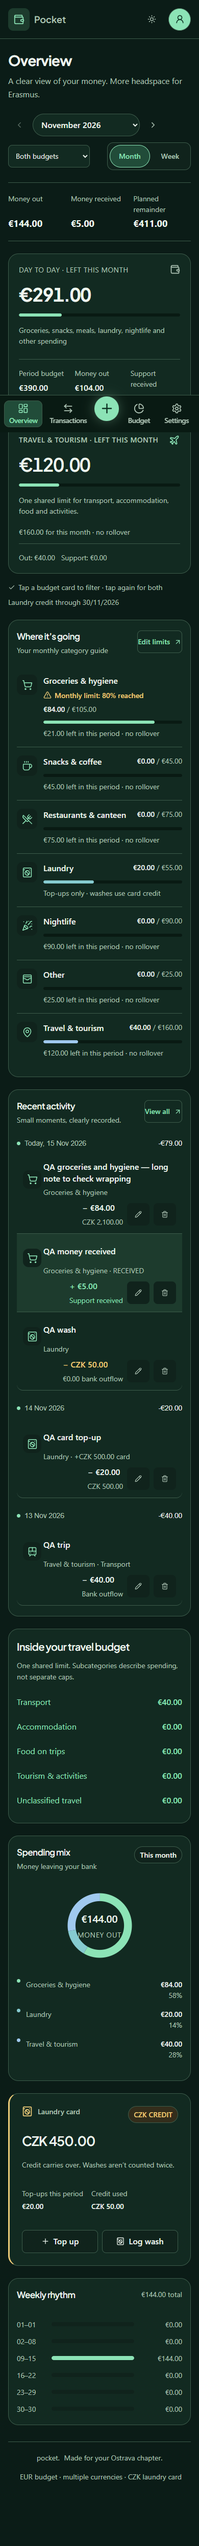
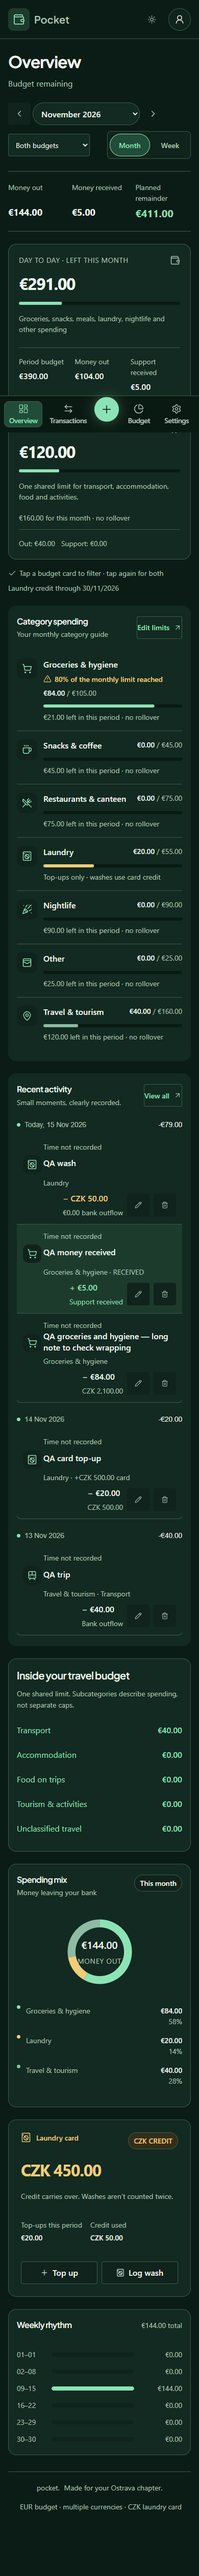
Document bilingual coverage approvals and time compatibility

diff --git a/src/style.css b/src/style.css
@@ -5025,3 +5025,27 @@ body:has(.screen-settings) .quick-add {
 .empty-mark {
   display: none;
 }
+/* Nested surfaces derive their radius from the enclosing surface padding. */
+.panel,
+.balance-card,
+.mini-card,
+dialog {
+  --inner-radius: max(0px, calc(var(--radius-lg) - var(--space-4)));
+}
+dialog {
+  border-radius: var(--radius-lg);
+}
+.panel .notice,
+.panel .data-action,
+dialog .amount-hero,
+.balance-card .track,
+.balance-card .track > span {
+  border-radius: var(--inner-radius);
+}
+.segmented {
+  border-radius: var(--radius-lg);
+  padding: var(--space-1);
+}
+.segmented button {
+  border-radius: calc(var(--radius-lg) - var(--space-1));
+}

diff --git a/docs/COVERAGE.md b/docs/COVERAGE.md
@@ -1,79 +1,74 @@
-# Redesign coverage — 15 November 2026
+# UI refinement coverage
 
-Branch: `codex/calm-pocket-redesign`. Base: `240efd2`.
+Branch: codex/pocket-ui-language. Base: ae629f2. The PT/EN selector already existed; this update completes device-language defaults, catalog parity and localized field feedback. Financial notes, brand names, currency codes and backup field names intentionally remain unchanged. No known app-owned interface label remains untranslated; unknown service diagnostics use a localized generic error.
 
-**Done** means the interface exists and was rendered in Chrome, including isolated fixtures where a live account or unusual state was needed. It does not mean physical-device or live-service certification. **Partial** identifies an explicit verification gap. No financial fixtures are bundled into the application; browser checks used separate disposable storage and mocked reference-rate responses.
+## Screen and state coverage
 
-## Screens and states
+Done means implemented and rendered; mock account/PWA states are distinguished from live infrastructure. No fixture records or quotes are bundled into the app.
 
-| Screen       | State or action                                                               | Status | Evidence / boundary                                                                                                             |
-| ------------ | ----------------------------------------------------------------------------- | ------ | ------------------------------------------------------------------------------------------------------------------------------- |
-| Navigation   | Five mobile controls, desktop sidebar, rate and workspace badges              | Done   | 320, 390, 768 and 1440px; navigation actions exercised.                                                                         |
-| Overview     | Month/week selection; Day to day, Travel and Both                             | Done   | All variants rendered; filtering and navigation exercised.                                                                      |
-| Overview     | Spending, money received, planned remainder, selected budget cards            | Done   | Existing summary values; selected card toggles back to Both.                                                                    |
-| Overview     | Category guides, 80%/100% indicators, charts with numeric legends             | Done   | Threshold fixture, labels and values rendered; no colour-only alert.                                                            |
-| Overview     | Recent activity and first-use empty state                                     | Done   | Populated and isolated empty workspaces rendered.                                                                               |
-| Overview     | Favourites, pending recurring occurrences, laundry, backup reminder           | Done   | Launch/undo, confirm/edit/ignore, top-up/wash and reminder controls exercised.                                                  |
-| Transactions | Day groups, daily net bank movement, original amounts                         | Done   | Daily totals retain the model's exclusion of washes from bank movement.                                                         |
-| Transactions | Search, group/category filters, empty and no-results states                   | Done   | No-results has a distinct Clear filters action.                                                                                 |
-| Transactions | Read-only detail and edit handoff                                             | Done   | Focus restoration, original three-decimal currency amounts, live row refresh/removal and opening the editor checked.            |
-| Transactions | Delete confirmation and Undo                                                  | Done   | Entry restored through existing validation; delete summary shows original currency.                                             |
-| Editor       | Expense, Money received, Card top-up and Wash; add/edit                       | Done   | All four kinds saved through the production form and unchanged accounting.                                                      |
-| Editor       | Amount/currency/date, budget cards, categories, note, rate and EUR equivalent | Done   | Bottom sheet/mobile and centred dialog/desktop; no clipped amounts.                                                             |
-| Editor       | Searchable currency picker, keyboard selection, manual rate                   | Done   | Arrows/Enter and manually entered conversion exercised.                                                                         |
-| Editor       | Validation and insufficient historical card credit                            | Done   | Invalid wash rejected and inline error rendered.                                                                                |
-| Editor       | Unsaved changes, Keep editing, Discard, successful save                       | Done   | Manual, favourite, recurring-rule and pending-occurrence guard actions and save bypass exercised.                               |
-| Editor       | Saved and monthly-limit notifications                                         | Done   | Existing notifications retained with icons and accessible text.                                                                 |
-| Budget       | Monthly total/category distribution, month/scope, saved feedback              | Done   | Plan changed and saved; selected month remains selected.                                                                        |
-| Budget       | Replacement warning and invalid distribution                                  | Done   | Following-month warning rendered; mismatch shows feedback and disables Save.                                                    |
-| Budget       | Tracking period, first tracked day, opening balances                          | Done   | Settings rendered; invalid tracking change rejected. Existing model tests retained.                                             |
-| Recurring    | Rule list, empty state, create/edit/delete, schedule/mode                     | Done   | Rule creation, edit and deletion exercised; generated entries unchanged.                                                        |
-| Recurring    | Pending occurrence Confirm/edit/Ignore and automatic Undo                     | Done   | Production components rendered and callbacks exercised.                                                                         |
-| Favourites   | List/empty, create/edit/delete, use/Undo, missing rate                        | Done   | All actions exercised with isolated records.                                                                                    |
-| Laundry      | Balance, history, opening credit and quick actions                            | Done   | Real fixture history displayed; no assumed wash prices or hours.                                                                |
-| Laundry      | Insufficient and blocked-change errors                                        | Done   | Invalid wash rejected; deleting a consumed top-up shows an error and preserves the record.                                      |
-| Exchange     | Searchable currencies, converter, published/fetched dates                     | Done   | Mocked reference response; search and conversion exercised.                                                                     |
-| Exchange     | Refreshing, cached/offline, error and missing rate                            | Done   | Held/failed mock responses render refreshing/error and missing quote; cached fixture renders offline.                           |
-| Data         | JSON/CSV export and reminder interval                                         | Done   | Export Blob contents inspected; disk download completion not checked.                                                           |
-| Data         | Import preview, cancellation, confirmation, duplicates, invalid file          | Done   | Invalid content rejected; duplicate-free CSV merge and preview actions exercised.                                               |
-| Account      | Unconfigured local mode and email-link request/success                        | Done   | Production settings rendered with mock OTP; real email delivery not tested.                                                     |
-| Account      | Pending changes, syncing, synced, offline, error                              | Done   | Production settings rendered with isolated store fixtures in both themes.                                                       |
-| Account      | Conflict; Export both, Keep local, Use cloud                                  | Done   | Both versions displayed and callbacks exercised. Existing sync protocol tests pass; no live cloud write.                        |
-| Account      | Sign-out confirmation                                                         | Done   | Dialog and Cancel exercised with pending-change fixture.                                                                        |
-| Settings     | Dark/light, English/Portuguese, limit alerts                                  | Done   | Theme/language changes persist on reload; preferences rendered.                                                                 |
-| Settings     | Offline notice                                                                | Done   | Offline UI state rendered; no service-worker offline navigation test.                                                           |
-| Settings     | Update available, save-open-forms warning, Reload & update                    | Done   | Actual App renders with mocked PWA hook; warning and reload callback checked. Real service-worker lifecycle remains unverified. |
+| Screen/state                                                            | Status      | Evidence                                                                                                   |
+| ----------------------------------------------------------------------- | ----------- | ---------------------------------------------------------------------------------------------------------- |
+| Overview: month/week, Day to day/Travel/Both, figures/cards             | Done        | Browser matrix and selected-budget assertions (P2).                                                        |
+| Categories,80%/100%,numeric chart legends,recent activity               | Done        | Existing threshold fixtures and localized matrix.                                                          |
+| First-use,favourites,pending occurrences,laundry,backup reminder        | Done        | Empty/fixture flows; actions retained.                                                                     |
+| Transactions: daily groups/net movement,search/filters,empty/no-results | Done        | Browser matrix; washes excluded by unchanged accounting.                                                   |
+| Detail,edit,delete/Undo                                                 | Done        | Existing workflow checks; precision retained.                                                              |
+| Newest addition first within day; recorded time                         | Done        | Unit round trips, ordering assertions and browser save/detail assertions. Legacy unknown time is explicit. |
+| Editor: expense,received,top-up,wash; add/edit                          | Done        | Existing production forms with new time field.                                                             |
+| Currency/date/time/group/category/note/rate/EUR equivalent              | Done        | Keyboard picker and saved input preservation; EN/PT.                                                       |
+| Validation,insufficient credit,unsaved choices,success/limit alerts     | Done        | Existing guard/credit tests; localized native validation.                                                  |
+| Budget:total,distribution,scope,replacement/error/success,tracking      | Done        | Form checks; navigation retains drafts (P1).                                                               |
+| Recurring rules:create/edit/delete; Confirm/edit/Ignore; automatic Undo | Done        | Existing workflows retained; schedule dates localized.                                                     |
+| Favourites:list/empty/create/edit/delete/use/Undo/missing rate          | Done        | Existing workflows; new quick entries record time.                                                         |
+| Laundry:balance/history/opening credit/blocked changes                  | Done        | Existing credit tests and blocked top-up fixture.                                                          |
+| Rates:search/converter/refresh/cache/offline/error/missing              | Done        | Mocked network; skeleton and last values retained.                                                         |
+| Data:JSON/CSV export/import/preview/duplicates/invalid/reminder         | Done        | Unit compatibility and browser stable-size reading/export feedback.                                        |
+| Account:local/email-link/pending/syncing/synced/offline/error           | Done (mock) | Real components with mock account/network callbacks.                                                       |
+| Conflict:Export both/Keep local/Use cloud; sign-out                     | Done (mock) | Existing callback/confirmation checks. Live server not tested.                                             |
+| Appearance/language/alerts/offline/update/open-form warning             | Done        | Matrix, preference persistence and mocked PWA state.                                                       |
+| Physical install,real service-worker lifecycle,live Supabase            | Partial     | Not exercised in this environment.                                                                         |
 
-## Delivery checkpoints
+## Twenty UI rules
 
-Every implementation checkpoint ran formatting, **48/48 tests** and the production TypeScript/Vite/PWA build successfully before committing. Subsequent focused checks address changes made after the broad browser pass.
+The brief's related typography and state bullets are grouped into20 review rows.
 
-The broad browser run contains 209 layout/state samples and 20 workflow groups. Follow-up checks cover 6 updated Overview/editor layouts, settled account contrast/focus restoration, and a final 13 workflow groups with 8 additional rendered-state samples. No requested interface is missing. Live-service, physical-device and service-worker lifecycle verification remains outstanding as described below.
+| Rule                                               | Where applied                                                            | Status                                                                       |
+| -------------------------------------------------- | ------------------------------------------------------------------------ | ---------------------------------------------------------------------------- |
+| 1 Remove filler badges                             | AppLayout,empty marks,term/mobile branding                               | Done                                                                         |
+| 2 Remove redundant labels                          | Page introductions,data headings,editor rate copy                        | Done                                                                         |
+| 3 Specific headlines                               | Category spending,backup files,account/manual sync                       | Done                                                                         |
+| 4 Balanced headings;unbroken amounts               | Shared CSS,metrics,rows,budget cards                                     | Done                                                                         |
+| 5 Defined type scale and fonts                     | tokens.css;14/16/20/24/32/48scale                                        | Done                                                                         |
+| 6 No decorative italics/bold/monospace             | Shared body/value fonts and branding                                     | Done                                                                         |
+| 7 Tabular locale-aware numbers                     | Values,rates,percentages,dates,time                                      | Done                                                                         |
+| 8 AA contrast/readable secondary and disabled text | Dark/light tokens;computed text checks including disabled controls       | Done in sampled states                                                       |
+| 9 Primary task gets visual weight                  | Remaining figures,editor amount,laundry credit                           | Done                                                                         |
+| 10 Group through spacing;reduce nested boxes       | Plan/editor/template panels;spacing scale                                | Done                                                                         |
+| 11 Optical alignment                               | Lucide normalization;rendered screenshots                                | Done                                                                         |
+| 12 Nested radius rule                              | Surface tokens and inner-panel/fieldset overrides                        | Done: nested surfaces and segmented controls derive inner radii from padding |
+| 13 Semantic token system                           | Colours,type,motion,layers;layout geometry remains in CSS                | Done                                                                         |
+| 14 One mint accent;semantic gold                   | Actions/selection/focus;currency/laundry;green chart palette             | Done                                                                         |
+| 15 One dominant CTA;distinct destructive action    | Page/modal styles;confirmed deletion and sign-out                        | Done                                                                         |
+| 16 Consistent icons/accessible names               | Lucide16/20/24,1.75stroke;existing aria labels                           | Done                                                                         |
+| 17 No embellishments                               | No gradients/glows/illustrations;floating elevation only                 | Done                                                                         |
+| 18 Async loading feedback                          | BusyButton,Skeleton,file reading,FX,sync,email                           | Done; browser controls disk download completion                              |
+| 19 Empty/error/offline/success states              | Existing screens plus localized fallback diagnostics                     | Done                                                                         |
+| 20 Useful motion/reduced motion                    | Transform bars,press,dialog/toast entry,optional native exit transitions | Done; browsers without View Transitions close immediately                    |
 
-| Step                               | Commit    | Main files                                                                            | Result |
-| ---------------------------------- | --------- | ------------------------------------------------------------------------------------- | ------ |
-| Tokens/base                        | `ca3a138` | `src/tokens.css`, `src/style.css`, `docs/DESIGN.md`                                   | Pass   |
-| Shared components                  | `7c9922e` | `src/components/Primitives.tsx`, styles                                               | Pass   |
-| Layout/navigation                  | `d17c3bd` | `AppLayout.tsx`, `PeriodControls.tsx`, translations/styles                            | Pass   |
-| Overview                           | `378581a` | `src/views/Overview.tsx`, `Panels.tsx`, translations/styles                           | Pass   |
-| Transactions                       | `a92a10a` | `src/views/Transactions.tsx`, `Panels.tsx`, translations/styles                       | Pass   |
-| Editor                             | `c638bf0` | `TransactionEditor.tsx`, `LedgerDialogs.tsx`, translations/styles                     | Pass   |
-| Budget/settings navigation         | `78b111e` | `src/views/Settings.tsx`, `src/App.tsx`, translations/styles                          | Pass   |
-| Recurring/favourites               | `40916cd` | `Recurring.tsx`, `Favorites.tsx`, translations/styles                                 | Pass   |
-| Laundry                            | `11e9df6` | `Panels.tsx`, translations/styles                                                     | Pass   |
-| Exchange                           | `5d870e2` | `Panels.tsx`, styles                                                                  | Pass   |
-| Data                               | `2e285f2` | `DataDialogs.tsx`, styles                                                             | Pass   |
-| Account/preferences                | `6dcfd63` | `Settings.tsx`, `App.tsx`, styles                                                     | Pass   |
-| Theme/accessibility polish         | `bf31fe5` | tokens, styles, navigation/translations                                               | Pass   |
-| Overview columns/detail correction | `4814cae` | `Overview.tsx`, `Panels.tsx`, styles                                                  | Pass   |
-| Precision/shared discard guard     | `870ac28` | `formatAmount.ts`, `UnsavedDialog.tsx`, ledger/recurring/favourite components, README | Pass   |
+## Proposals
 
-## Limits and review
+| ID  | Change                                           | Impact                                                    | Recommendation           | Status                                       |
+| --- | ------------------------------------------------ | --------------------------------------------------------- | ------------------------ | -------------------------------------------- |
+| P1  | Preserve settings drafts across pages            | UI lifecycle;no persisted format change                   | Keep                     | Approved and implemented,e2f8564             |
+| P2  | Scope Overview summary to selected budget        | Presentation only;existing summary values                 | Keep                     | Approved and implemented,ce6b1ea             |
+| P3  | Latest addition first and optional recorded time | HIGH IMPACT:metadata validation/comparator and CSV column | Keep;update both devices | Explicitly requested and implemented,f9e5d46 |
 
-Review screenshots: [dark mobile Overview](previews/overview-dark-mobile.png), [light desktop Overview](previews/overview-light-desktop.png), [mobile editor](previews/editor-dark-mobile.png). These contain isolated QA records and mocked rates only. They are documentation, not preloaded application data.
+P3 compatibility/rollback is documented in PROPOSALS.md. Amounts,exchange conversion,allocation,credit-validation rules,storage keys,sync protocol and Supabase schema are unchanged. P1 preserves drafts across navigation, not across a browser reload; committed external changes still reset forms to the latest saved data.
 
-- Accounting, hooks, persistence, sync, backup formats, exchange-rate retrieval, Supabase schema, package manifests and lockfile have no diff from the base commit.
-- Browser checks used Chrome with production headers and CSP, mocked Frankfurter responses and blocked service workers. Account fixtures render the real components but substitute authentication/network callbacks.
-- Computed text-contrast sampling, target/font sizes, amounts and overflow were inspected. This is not a full screen-reader audit or accessibility certification. No physical Android/iOS device or notch/landscape device was available.
-- No real Supabase authentication, cross-account RLS test, two-device network sync or conflict was performed. No changes were pushed or deployed.
-- See [VERIFICATION.md](../VERIFICATION.md) for test details and historical checks. Dependency audit counts are dated; no new audit or dependency upgrade is claimed for this UI work.
+## Step record
+
+Every implementation commit passed tests and production build. Initial language work increased48tests to50; time/ordering coverage increased50to52. Commit history contains the ordered screen refinements and separate proposal commits. Review source with git diff ae629f2..HEAD. Screenshot fixtures are explicitly QA-only; compare docs/previews with the current files referenced in VERIFICATION.md.
+
+## Remaining verification
+
+No physical Android/iOS install,real offline SW navigation/update,live email delivery,live two-device sync or full assistive-technology certification. Localhost preview HTTP was blocked/timed out in this environment; Chrome QA served the built assets by same-origin interception with production CSP. No GitHub push or deployment was performed. Figma was not supplied a file/node destination; no external design file or new hosted Site was created.

diff --git a/README.md b/README.md
@@ -33,7 +33,7 @@ This separation preserves the existing interface, storage keys, backup format, s
 
 ## Interface and navigation
 
-English is the default language. Open **Settings → Language** and choose **Português (Portugal)** to switch immediately. The device remembers the choice across reloads and shares it between open tabs. Navigation, forms, categories, app messages, currency names, dates and amounts follow the selected language. Personal notes, financial values and JSON/CSV field names remain unchanged. Translations live in `src/locales/pt.ts`, with English source messages as keys.
+On first launch, a Portuguese device language selects Português (Portugal); other device languages select English. A saved choice always takes priority. Open **Settings → Appearance & language** and choose **Português (Portugal)** to switch immediately. The device remembers the choice across reloads and shares it between open tabs. Navigation, forms, categories, app messages, currency names, dates and amounts follow the selected language. Personal notes, financial values and JSON/CSV field names remain unchanged. Translations live in `src/locales/pt.ts`, with English source messages as keys.
 
 Desktop uses a persistent sidebar, exchange-rate badge and an account/sync status derived from the actual workspace. Mobile uses five navigation controls: Overview, Transactions, a central Add button, Budget, and Settings. Budget and Settings share the same data forms; mobile tabs expose Plan, Exchange rates, Card, Data and Account. Changing pages returns to the top.
 
@@ -104,9 +104,9 @@ On 3 November 2026 the service returned 165 searchable non-crypto currencies. Co
 
 Rates and catalog are cached separately from the financial document, so refreshes do not create Supabase conflicts. Offline entries can use cached rates; without a rate you must enter one manually. Each entry saves its currency, EUR conversion, rate and optional publication/source metadata. Editing starts with the entry’s saved rate, preserving historical valuations. Foreign amounts use currency-specific integer minor units (JPY has no fractional digits, KWD has three). Budgets stay in EUR; the laundry card stays in CZK with EUR/CZK-only top-ups and washes. Bank fees are not inferred.
 
-Transactions are grouped by day, newest day first, then first-added first within a day. Editing an entry preserves its insertion order. Older entries receive an insertion sequence based on their existing stored order; previously lost creation chronology cannot be reconstructed. Sequence numbers travel with JSON, CSV and cloud sync.
+Transactions are grouped by day, newest day first, then last-added first within a day. Editing an entry preserves its insertion order. Older entries receive an insertion sequence based on their existing stored order; previously lost creation chronology cannot be reconstructed. Sequence numbers travel with JSON, CSV and cloud sync.
 
-JSON saves all settings, plans, history and legacy metadata. Import replaces the workspace after confirmation. CSV exports transactions, including travel categories and insertion order. CSV import merges IDs, skips identical records and rejects changed duplicates. Original 10-column, previous 12-column and 13-column Pocket CSVs are also accepted. New CSVs include rateDate and rateSource. Amount is always in the original currency’s minor units; eur and card credit remain in EUR/CZK cents. Use JSON when moving the complete budget. Export backups before clearing browser storage. Refund/negative entries are not supported; use income for support and edit/delete mistakes.
+JSON saves all settings, plans, history and legacy metadata. Import replaces the workspace after confirmation. CSV exports transactions, including travel categories and insertion order. CSV import merges IDs, skips identical records and rejects changed duplicates. Original 10-column, previous 12-column and 13-column Pocket CSVs are also accepted. New CSVs include rateDate, rateSource and time. Previous 15-column CSVs remain supported. Amount is always in the original currency’s minor units; eur and card credit remain in EUR/CZK cents. Use JSON when moving the complete budget. Export backups before clearing browser storage. Refund/negative entries are not supported; use income for support and edit/delete mistakes.
 
 ## Existing budgets migrate automatically
 
@@ -176,7 +176,7 @@ After a code update, push the changed files and wait for Vercel to finish deploy
 
 The November 15 redesign was checked in headless Chrome at 320, 390, 768 and 1440px in both themes, with English and Portuguese layouts. The walkthrough covers entries, details, deletion/undo, recurring rules, favourites, plan edits, backup payloads/import and device preferences. Account and conflict states were rendered with mock callbacks; this does not verify live authentication or multi-device sync.
 
-`npm test` currently runs 48 tests covering accounting, migration, dates, ordering, currencies, backup round trips and platform configuration. `npm run build` checks TypeScript and generates the production app and service worker. See [VERIFICATION.md](VERIFICATION.md) for the checks performed and their limits. The redesign passed a Chrome browser smoke check at 320, 390, 768 and 1440px, including mobile navigation, currency search, card filtering, expense creation/editing and light theme. These checks used isolated test data and mocked rate responses; they are not tests on a physical Android device or live Supabase accounts.
+`npm test` currently runs 52 tests covering accounting, migration, dates, ordering, currencies, backup round trips and platform configuration. `npm run build` checks TypeScript and generates the production app and service worker. See [VERIFICATION.md](VERIFICATION.md) for the checks performed and their limits. The redesign passed a Chrome browser smoke check at 320, 390, 768 and 1440px, including mobile navigation, currency search, card filtering, expense creation/editing and light theme. These checks used isolated test data and mocked rate responses; they are not tests on a physical Android device or live Supabase accounts.
 
 Official references: [Vercel Vite](https://vercel.com/docs/frameworks/frontend/vite), [Supabase keys](https://supabase.com/docs/guides/getting-started/api-keys), [Redirect URLs](https://supabase.com/docs/guides/auth/redirect-urls).
 
@@ -193,3 +193,11 @@ Official references: [Vercel Vite](https://vercel.com/docs/frameworks/frontend/v
 - English is the source language; the existing language selector provides Portuguese (Portugal). New interface messages use the same translation mechanism. User-entered notes and exported field names are not translated.
 
 Consult VERIFICATION.md for the latest checks and dated audit counts; see IMPROVEMENTS.md for the status of each review point.
+
+## UI and language refinement
+
+The selector already existed and has been completed with device-language defaults, independent EN/PT catalogs, key-parity tests, localized field validation, and immediate updates to the document title and language. Switching language keeps mounted drafts, values and scroll position. Personal notes, brand names, currency codes and exported field names remain unchanged. Unrecognized provider diagnostics use a localized recovery message.
+
+The approved changes preserve settings drafts when navigating away and scope the Overview summary to the selected budget. New manual transactions have an editable time in Ostrava time (Europe/Prague); quick favourite entries record the current time. Older and scheduled transactions with no known time display “Time not recorded”. Editing does not move an entry to the top: ordering uses its original insertion sequence, descending within each date. No time is invented for old records. JSON carries optional time metadata; CSV adds a final time column while continuing to read older headers. Update both devices before editing this version; older clients may omit times on edits and do not read the new CSV header. Keep a full JSON backup before rollback. No SQL change is needed.
+
+See [coverage and the 20 UI rules](docs/COVERAGE.md), [approved proposals and compatibility](docs/PROPOSALS.md), and [verification](VERIFICATION.md).

diff --git a/docs/PROPOSALS.md b/docs/PROPOSALS.md
@@ -3,6 +3,7 @@
 Base: ae629f2. Branch: codex/pocket-ui-language.
 
 ## Audit
+
 - Language selector already exists in Settings/Account; i18n.ts defaults to English rather than device language. There is one PT dictionary but no independently checked EN catalog.
 - AppLayout.tsx still includes decorative Erasmus badges, an ornamental term label and generic introductory copy.
 - style.css contains historical gradients, shadows, raw dimensions, inconsistent icon sizes and disabled opacity that weakens contrast. Tokens lack type, motion and layering scales.
@@ -11,6 +12,7 @@ Base: ae629f2. Branch: codex/pocket-ui-language.
 - Settings forms are preserved between settings tabs, but unmount when leaving the screen. Global Overview totals remain global when a single budget is selected.
 
 ## P1 — Preserve settings drafts across page navigation
+
 Problem: Settings.tsx unmounts when moving to Overview/Transactions, losing unsaved plan/tracking fields.
 Proposal: keep the screen mounted or retain drafts in its existing hook.
 Benefit: navigation does not silently discard a draft.
@@ -20,6 +22,7 @@ Alternatives: do nothing; warn before leaving instead.
 Recommendation: approve separately after the visual work. Status: IMPLEMENTED (P1); screen remains mounted, drafts survive page navigation. External saved-data changes still reset forms to the latest committed data.
 
 ## P2 — Scope the Overview summary to the selected budget
+
 Problem: Overview.tsx global spending/support/remainder metrics stay global while category charts filter to Day to day or Travel.
 Proposal: filter all three summary figures to the chosen budget, while Both retains current totals.
 Benefit: the headline summary matches the selected context.
@@ -31,6 +34,7 @@ Recommendation: approve separately; for now retain values and clarify the global
 Only reply with IDs to approve these, e.g. approve P1; reject P2. Visual styling and the expressly requested language support continue independently. No HIGH IMPACT proposal is needed.
 
 ## P3 — Newest entries within each day and recorded time — HIGH IMPACT
+
 Approved by the user's explicit follow-up request. Days remain descending; insertion sequence within a day becomes descending (editing never changes order). Optional time metadata stores HH:mm in Europe/Prague; new manual entries default to current time and permit editing. Legacy and scheduled entries with unknown time say Time not recorded. Favourite quick entries record current time.
 Affects model transaction metadata/validation/comparator, optional JSON property, appended CSV time column, bilingual editor/list/detail, tests. No amount, conversion, allocation, credit-validation rules, storage keys, sync protocol or SQL schema changes. Risk medium; effort M. Alternative do nothing rejected by the direct request.
 Migration: no invented times; old10/12/13/15-column CSVs remain readable; new exports16columns. Older CSV merging preserves an existing recorded time. JSON version unchanged. Update both devices before editing; old clients may drop time metadata when editing. Rollback: export a complete JSON first, return to previous client; original financial fields remain compatible, but older clients cannot import the new CSV header. Retain the JSON for time recovery.

diff --git a/VERIFICATION.md b/VERIFICATION.md
@@ -1,5 +1,18 @@
 # Verification
 
+## Bilingual UI refinement and transaction time
+
+Base ae629f2; branch codex/pocket-ui-language. See docs/COVERAGE.md for all screens,20 UI rules and proposals; docs/PROPOSALS.md records approval/impact/rollback. The language selector already existed and was completed, not invented anew.
+
+- 52tests pass (48existing plus catalog/device-language and time-compatibility coverage); production TypeScript/Vite/PWA build and formatting pass. Every implementation commit passed its applicable50/52tests and build. No new dependencies.
+- 176 rendered state/layout samples cover320/390/768/1440px, both themes and EN/PT. After correcting a narrow-screen metric overflow, no document overflow, sampled clipped amounts, text below14px, controls below44px or computed text-contrast failures remained. Disabled text was included. This is sampling, not accessibility certification.
+- Targeted browser checks confirm P1 draft retention across navigation, P2 scoped totals, P3 recorded time and latest-added-first display, mid-form locale changes retaining input nodes/values/time/sheet scroll, language-selector page-scroll preservation, saved language after reload, export feedback and stable-size/disabled import reading.
+- Motion checks exercise animated dialog cancellation and reduced-motion disabling. Exit transitions use the optional native View Transitions API; unsupported browsers perform the action immediately. No looping decoration.
+- Date/time metadata is optional. Time is HH:mm in Europe/Prague; legacy/scheduled unknown times remain absent. The new16-column CSV includes time and reads old10/12/13/15-column CSVs. Tests verify old CSV merge preserves an existing time, JSON/CSV round trips, invalid-time rejection and insertion order unaffected by edits/recorded time.
+- P3 deliberately changes transaction metadata validation, display ordering and CSV shape with user authorization. Financial arithmetic, historical credit validation, storage keys, sync protocol and SQL schema are unchanged. P1/P2 only affect presentation/lifecycle. Language/visual feedback extend existing hooks without replacing the state layer.
+- Built assets were served to isolated Chrome contexts through same-origin interception with production CSP. Frankfurter/account responses are mocked; no personal records/accounts were accessed. Localhost HTTP preview was blocked/timed out despite Vite starting, so a live preview could not be verified.
+- No physical device install, real SW offline/update lifecycle, live email delivery, live Supabase two-device sync or download-file completion was checked. Source remained local; no push/deployment. Figma had no supplied destination/source file; no new Figma file or hosted Site was created.
+
 ## Interface redesign — 15 November 2026
 
 Branch `codex/calm-pocket-redesign`, based on `240efd2`. Implementation follows the ordered checkpoints in [docs/COVERAGE.md](docs/COVERAGE.md); design rules and the short audit are in [docs/DESIGN.md](docs/DESIGN.md).

diff --git a/docs/DESIGN.md b/docs/DESIGN.md
@@ -1,22 +1,28 @@
 # Pocket interface system
 
 ## Direction and structure
+
 Forest surfaces, one mint action/selection accent, gold only for currency/laundry and semantic error styling. Preserve all destinations, form actions, grouping and calculations. Pending behavioural ideas live in PROPOSALS.md.
 
 ## Tokens
+
 Colour roles: canvas, surface, inset, elevated, active, text, muted, disabled, border, action/on-action, gold/background, error/background. Seven chart series use shades of the existing green palette with numeric legends; laundry alone may use gold.
 Type: Inter body and monetary values; Plus Jakarta Sans headings. 14/16/20/24/32/48px scale; 16px mobile body. Tabular numerals for financial values, dates, rates and percentages. Balanced heading wrapping, unbroken amounts.
 Spacing: 4/8/12/16/24/32/48px. Radius: 16px outer, 8px inner at 8px padding, square inner at 16px padding. Touch minimum44px. Shadow only on floating menus/dialogs/toasts. Layers: header10, navigation20, toast40, modal50.
 Motion: 180ms ease-out; transform/opacity only, finite feedback. Reduced motion disables animations/transitions. Refresh progress retains previous values without decorative loops.
 
 ## Components
+
 Native accessible controls with shared primary/secondary/destructive styles; Field, Search, chips, Metric, bars, transaction rows, Notice, EmptyState, Skeleton/BusyButton, Modal/UnsavedDialog. One dominant action per current screen or modal; contextual actions remain available with lower visual weight. Lucide icons,1.75 stroke,16/20/24 grid. No decorative badges, emoji, gradients or illustrations.
 
 ## Layout
+
 Existing mobile five-control navigation and settings tabs preserved. Desktop sidebar and two columns retained. Spacing groups related content; forms avoid nested bordered cards. Safe areas on all edges. Check320/390/768/1440px in EN/PT and dark/light.
 
 ## Language
+
 English source keys and a separate English catalog, PT-PT equivalents with identical keys and placeholders. First launch uses navigator language (pt variants→pt; otherwiseen); saved choice wins. Runtime switching preserves mounted inputs/scroll. Intl handles dates, numbers, currency, percentages and plurals. Titles/lang/accessible names update. Data, notes, storage keys and machine-readable exports never translate. Unknown provider errors use localized generic UI feedback; technical diagnostics remain unchanged internally.
 
 ## Verification
+
 Run tests/build at every commit, plus dictionary parity/source-key checks. Browser matrix uses disposable data and mocked networking. Verify language switch mid-form, longPT labels, busy states, reduced motion and dialog focus. LiveSupabase, physicaldevices and realSW lifecycle remain separate verification boundaries.
